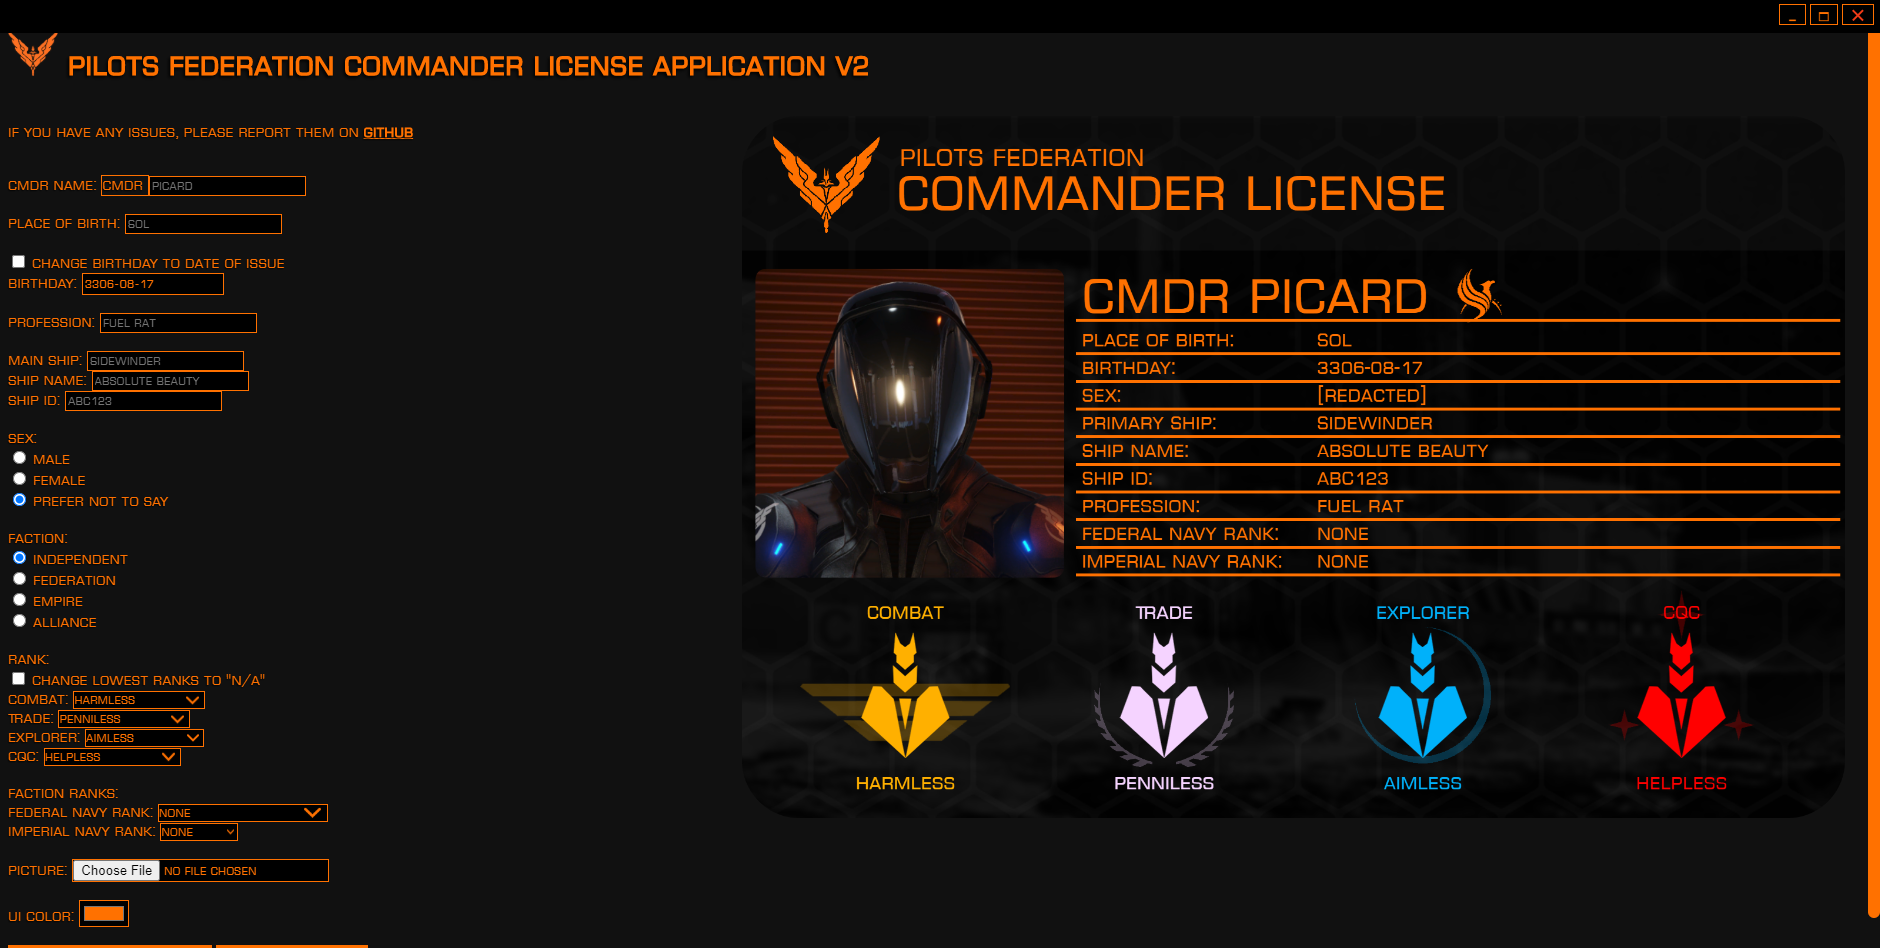
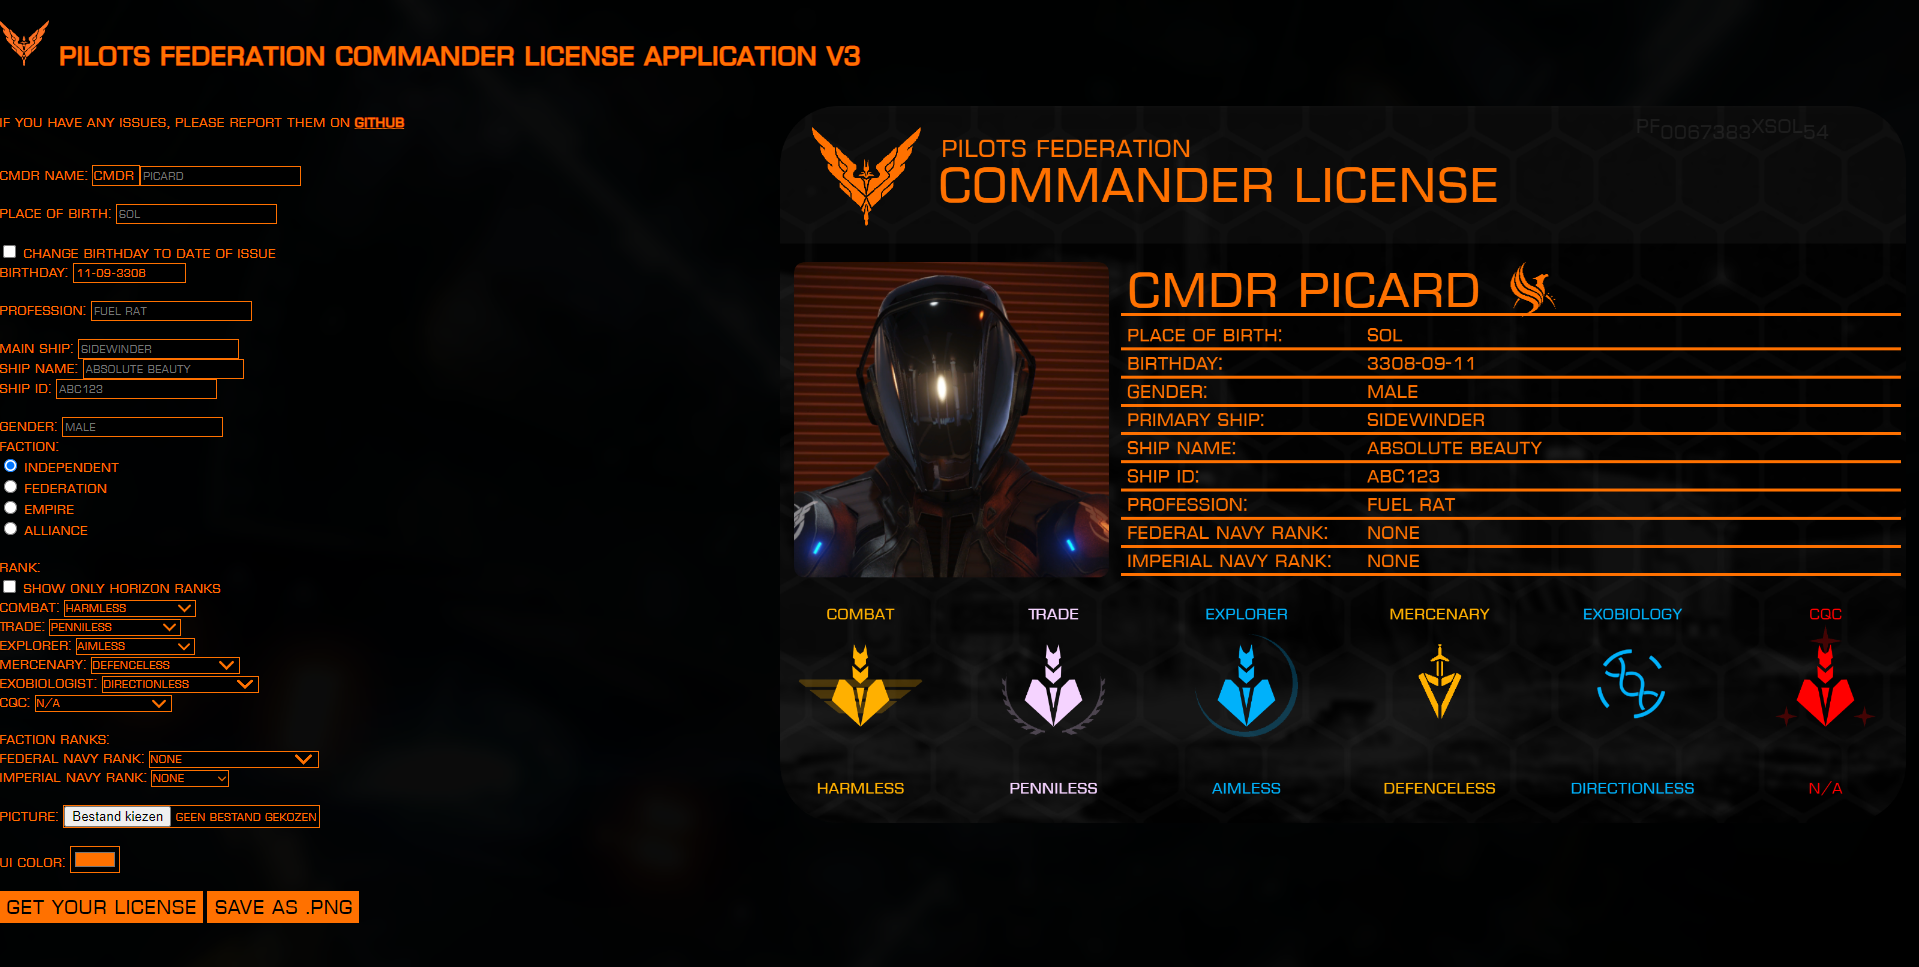
chore: update README
Updated README with changes made

diff --git a/README.md b/README.md
@@ -1,4 +1,5 @@
-# CMDR License V2
+# CMDR License V3
+
 A commander license generator for the game Elite: Dangerous
 
 ![](header.png)
@@ -18,10 +19,15 @@ npm run dist
 
 ## Release History
 
-* 2.0.0
-    * ADD: Bunch of features compared to V1
-* 2.1.0
-    * ADD: Standalone app using electron
+- 2.0.0
+  - ADD: Bunch of features compared to V1
+- 2.1.0
+  - ADD: Standalone app using electron
+- 3.0.0
+  - ADD: Odyssey ranks and prestige ranks
+  - ADD: Odyssey and Horizon mode
+  - ADD: Document number
+  - CHANGE: Combined N/A and minimum rank mode. CQC defaults to N/A.
 
 ## Meta
 
